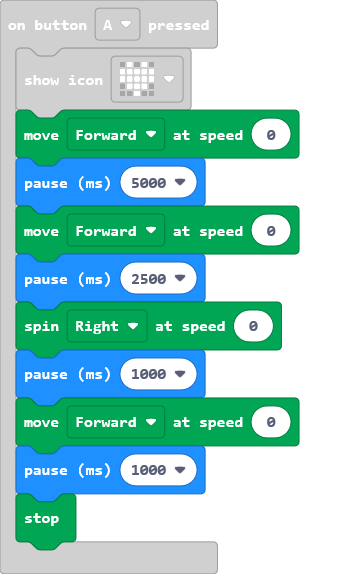
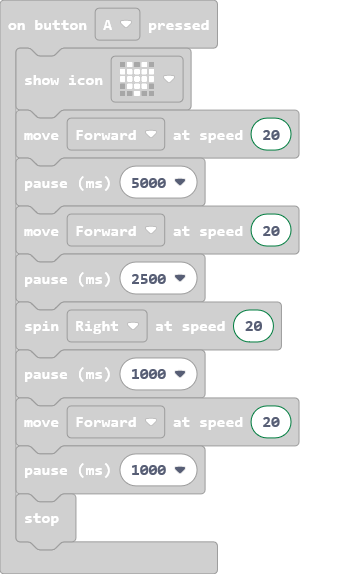
Update main.blocks, main.ts

diff --git a/main.ts b/main.ts
@@ -1,12 +1,12 @@
 input.onButtonPressed(Button.A, function () {
     basic.showIcon(IconNames.Heart)
-    Kitronik_Move_Motor.move(Kitronik_Move_Motor.DriveDirections.Forward, 0)
+    Kitronik_Move_Motor.move(Kitronik_Move_Motor.DriveDirections.Forward, 20)
     basic.pause(5000)
-    Kitronik_Move_Motor.move(Kitronik_Move_Motor.DriveDirections.Forward, 0)
+    Kitronik_Move_Motor.move(Kitronik_Move_Motor.DriveDirections.Forward, 20)
     basic.pause(2500)
-    Kitronik_Move_Motor.spin(Kitronik_Move_Motor.SpinDirections.Right, 0)
+    Kitronik_Move_Motor.spin(Kitronik_Move_Motor.SpinDirections.Right, 20)
     basic.pause(1000)
-    Kitronik_Move_Motor.move(Kitronik_Move_Motor.DriveDirections.Forward, 0)
+    Kitronik_Move_Motor.move(Kitronik_Move_Motor.DriveDirections.Forward, 20)
     basic.pause(1000)
     Kitronik_Move_Motor.stop()
 })
